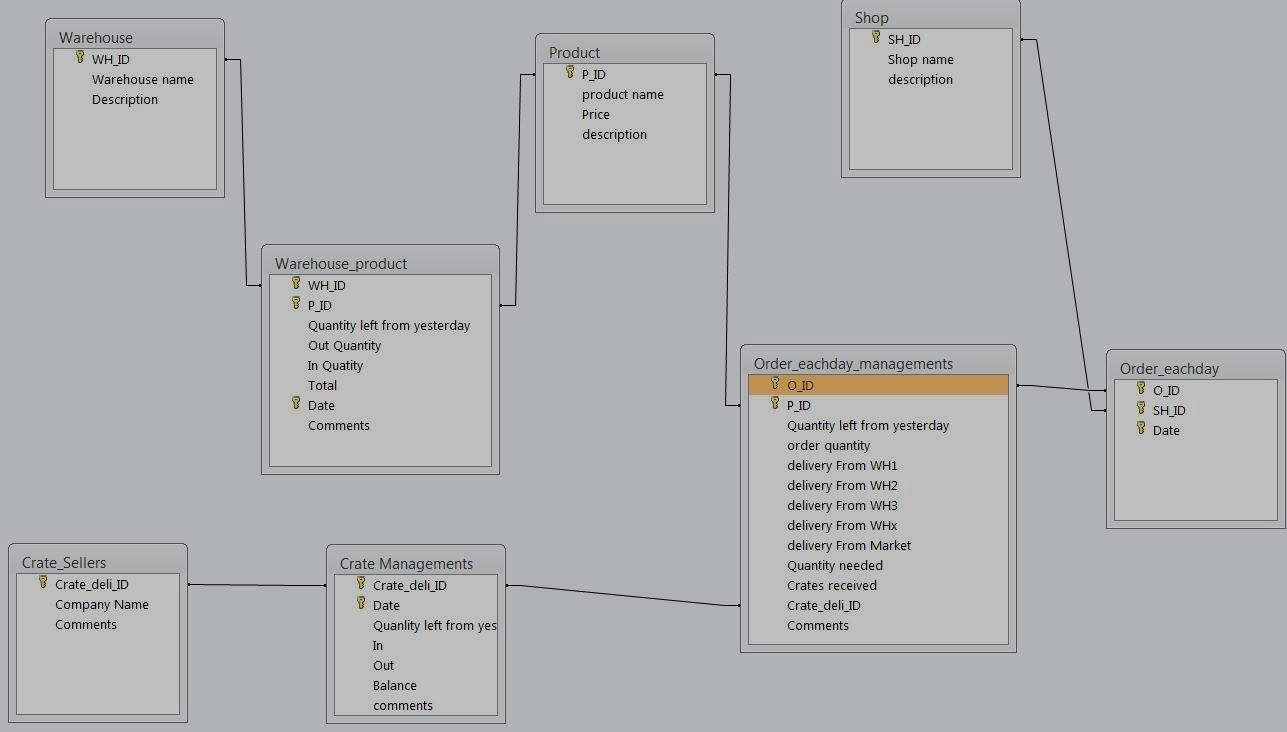
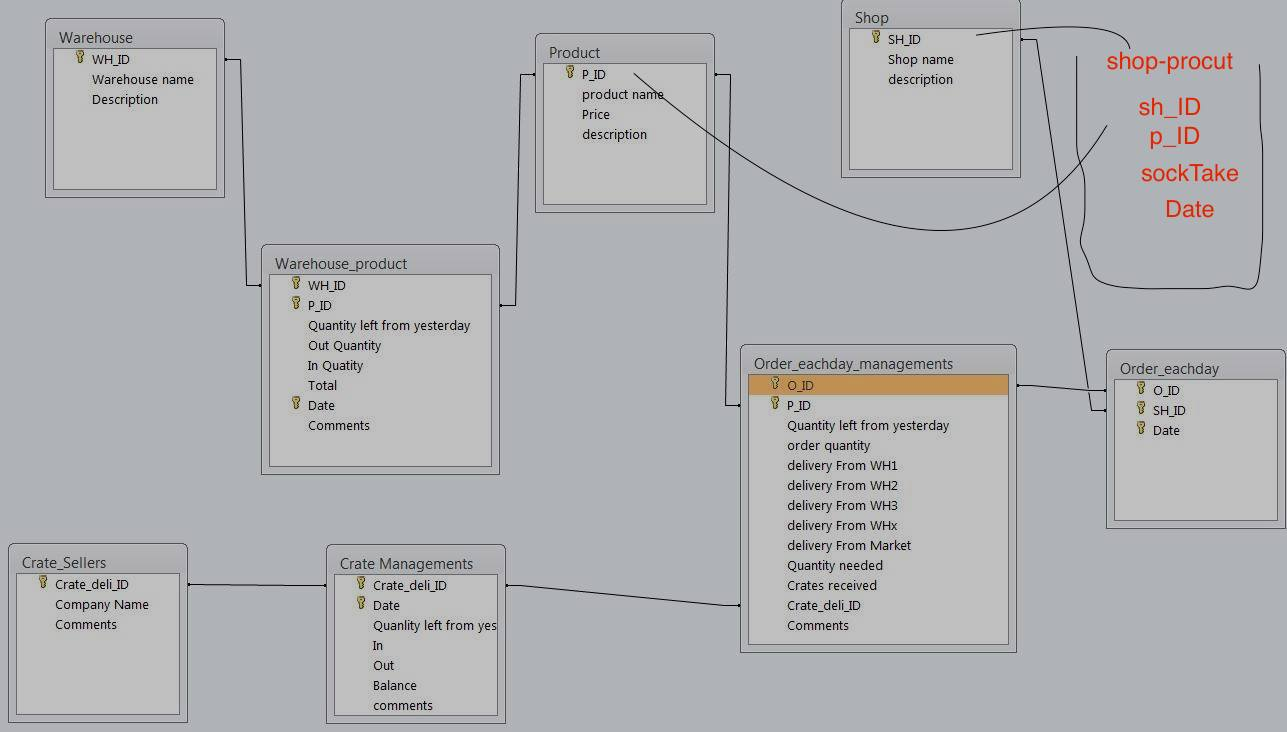
Edit aapi

Changed region(s): [[0.8392, 0.0601, 0.9635, 0.3005]]

diff --git a/Server/sql.js b/Server/sql.js
@@ -20,7 +20,7 @@ module.exports = {
           },
            /*select order list*/
           getShopProductList: function(con, req, res) {
-            var sql = "SELECT * FROM `shop_product` WHERE date=?";
+            var sql = "SELECT shop_product.productID, shop_product.shopID, shop_product.stockTake, shop_product.date, product.productName FROM shop_product JOIN product ON shop_product.productID = product.productID WHERE shop_product.date =?";
             var strDate = req.query.date;
             con.query(sql,strDate, function(err, rows) {
                 if(err) {
